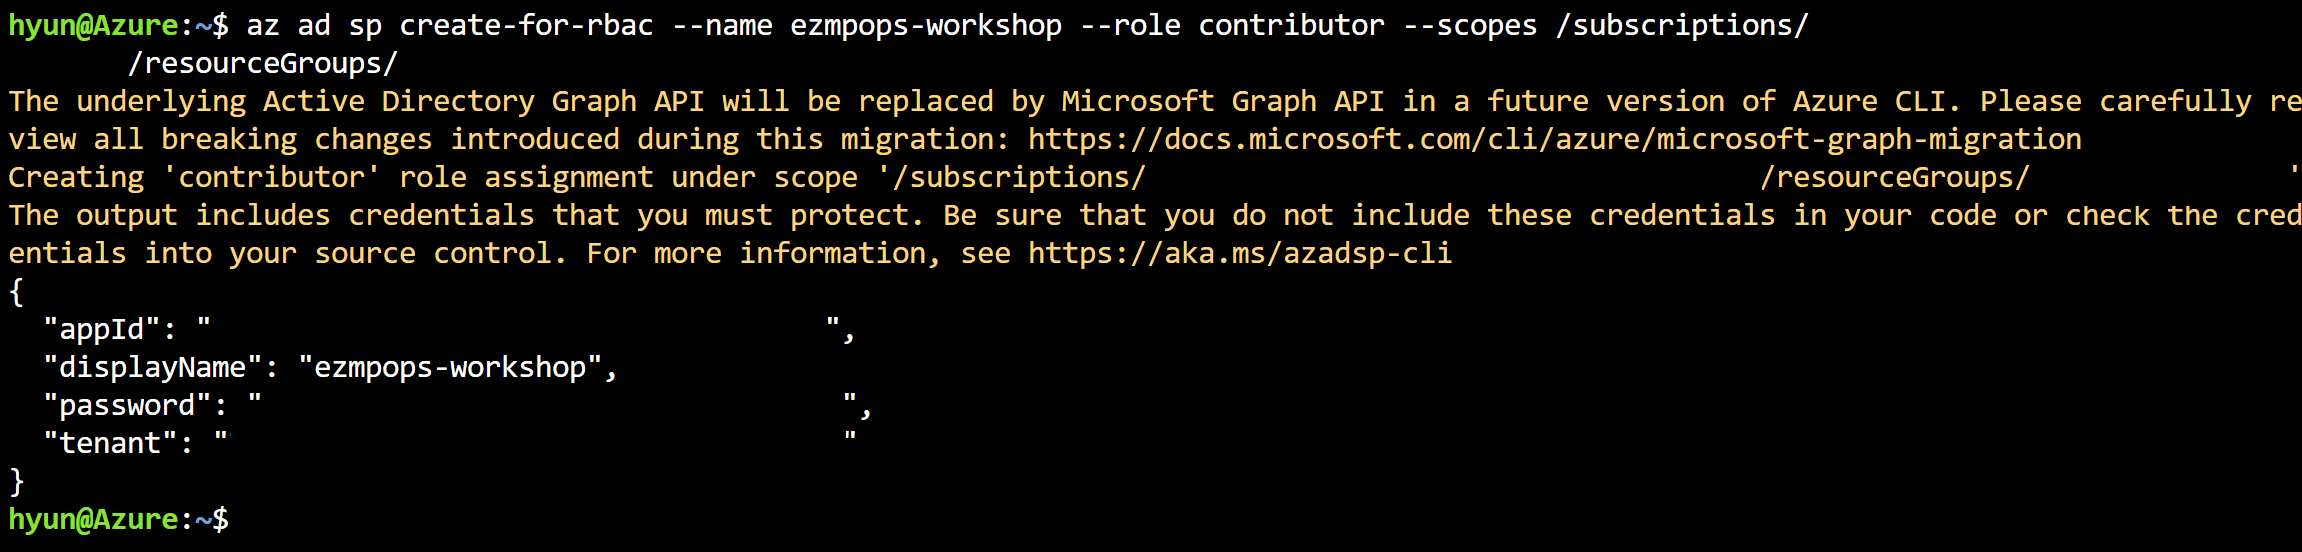
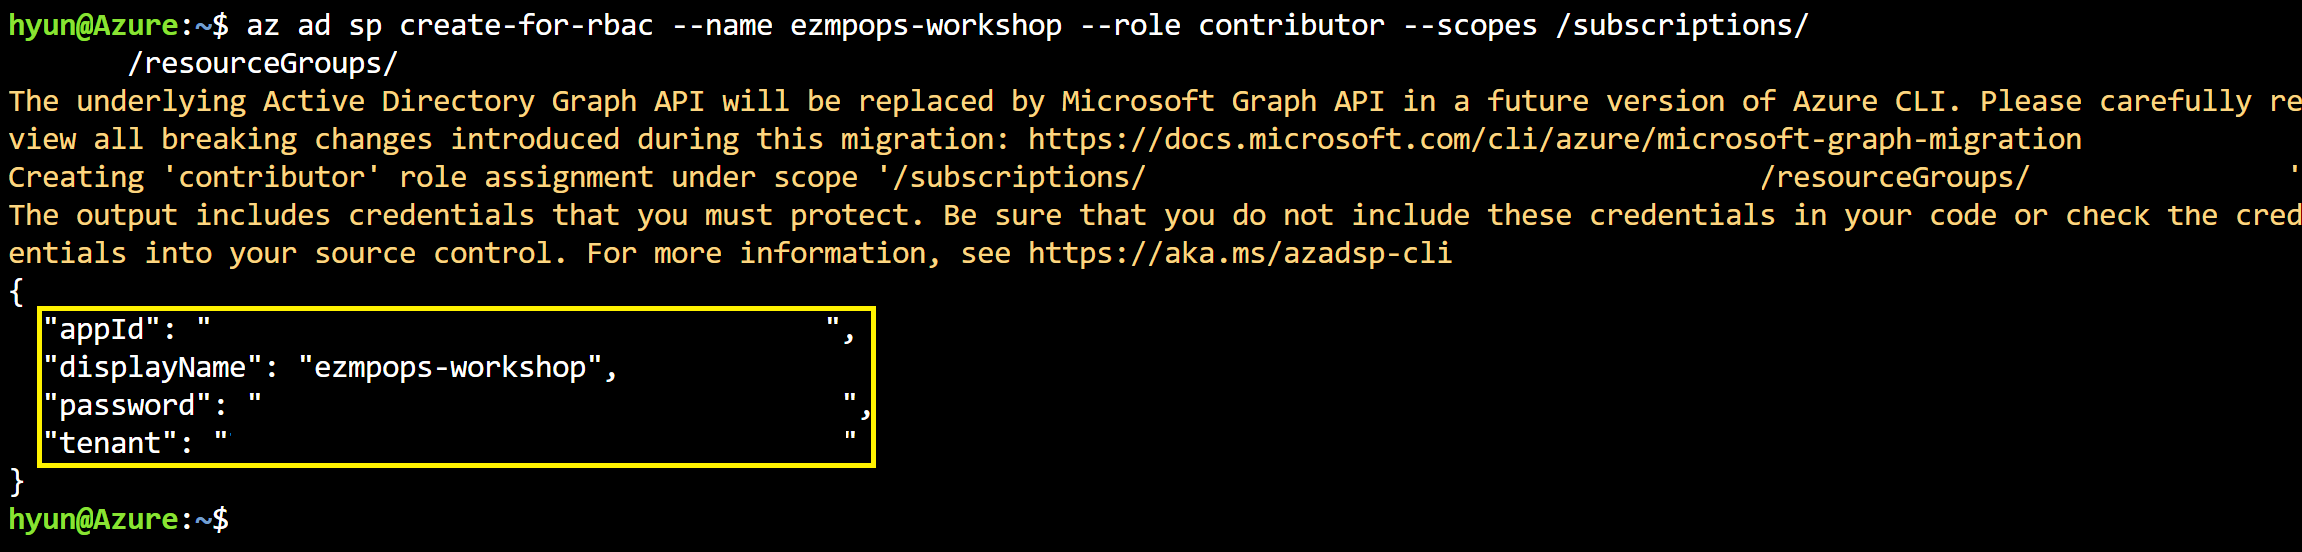
update img

Changed region(s): [[0.0, 0.8315, 0.401, 0.8623], [0.0, 0.5543, 0.401, 0.5851]]

diff --git a/src/workshop/documents/part_0.md b/src/workshop/documents/part_0.md
@@ -162,7 +162,7 @@ git clone https://github.com/{YOURGITHUBACCOUNT}/MLOpsTemplate.git
 
 - Create Service Principal
 
-    > If you have Service Principal, please use the existing one. Ignor this step and go to Part 1.
+    > If you have Service Principal, please use the existing one. Ignore this step and go to Part 1.
     > 
     > If you don't have the Service Principal, please follow next step.
     
@@ -178,6 +178,8 @@ git clone https://github.com/{YOURGITHUBACCOUNT}/MLOpsTemplate.git
     az ad sp create-for-rbac --name {REPLACE_SPNAME} --role contributor --scopes /subscriptions/{REPLACE_SUBSCRIPTIONID}/resourceGroups/{REPLACE_RESOURCEGROUPNAME}
     ```
     ![](./images/arm002.png)
+
+    - Important: Make sure you take a note of `"appId", "displayName", "password", "tenant"` from the output
 
 ### Option B. Use your laptop (PC/MAC)
 
@@ -283,7 +285,7 @@ git clone https://github.com/{YOURGITHUBACCOUNT}/MLOpsTemplate.git
 
 - Create Service Principal
 
-    > If you have Service Principal, please use the existing one. Ignor this step and go to Part 1.
+    > If you have Service Principal, please use the existing one. Ignore this step and go to Part 1.
     > 
     > If you don't have the Service Principal, please follow next step.
         
@@ -299,6 +301,8 @@ git clone https://github.com/{YOURGITHUBACCOUNT}/MLOpsTemplate.git
     ```
 
     ![](./images/arm002.png)
+
+    - Important: Make sure you take a note of `"appId", "displayName", "password", "tenant"` from the output
 
 ---
 
